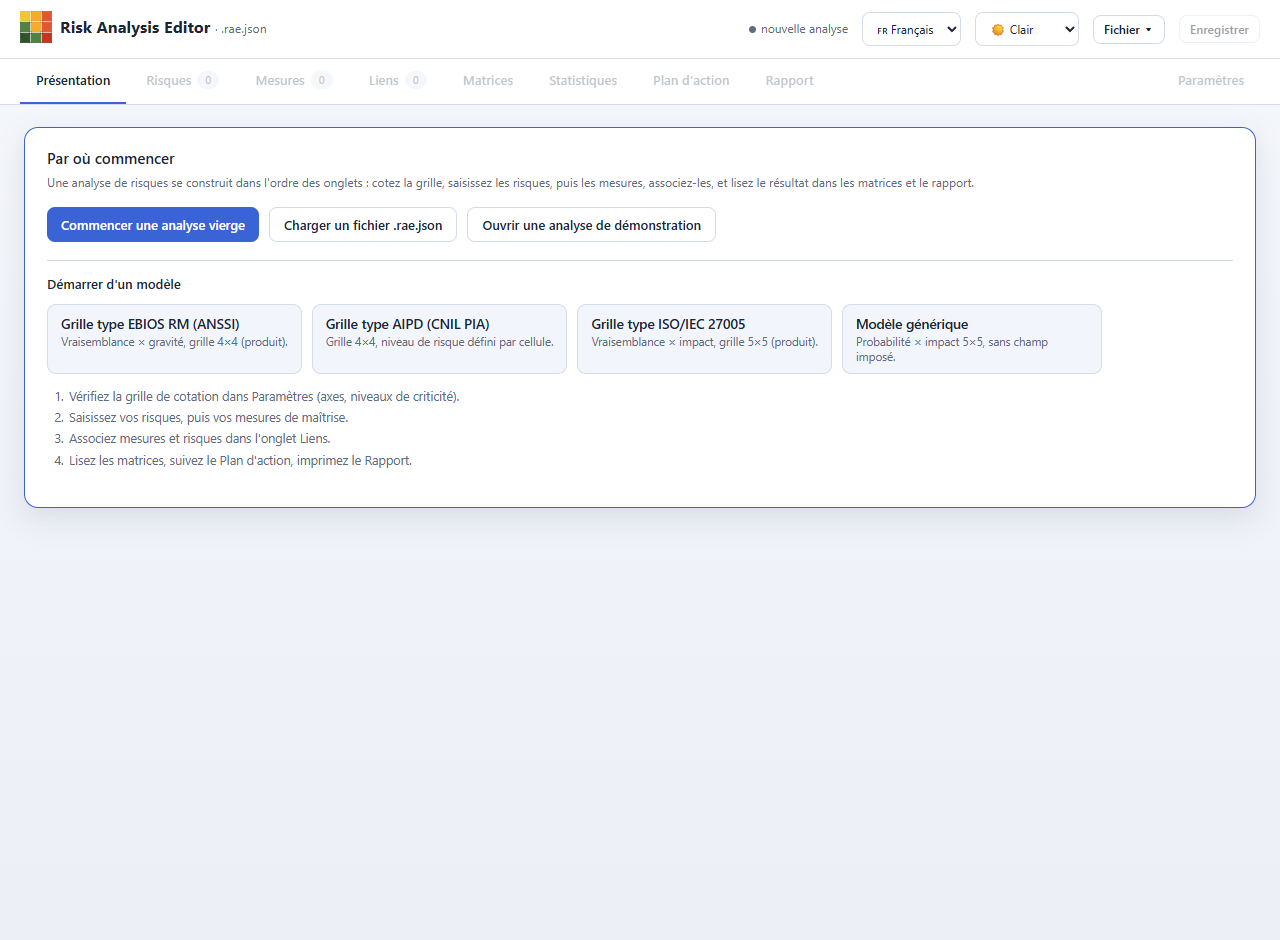
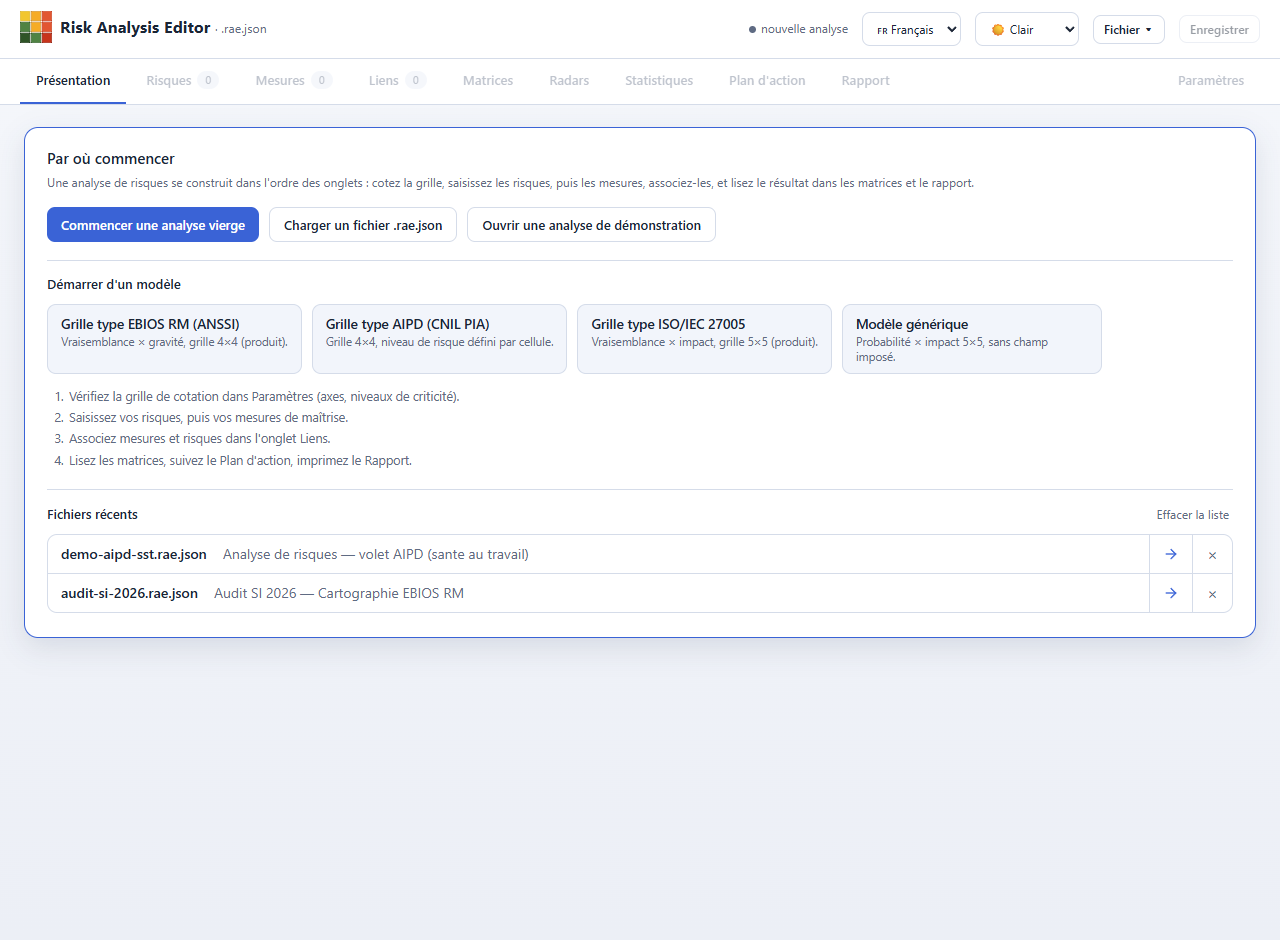
docs(accueil,radars): guide, captures et bump 1.19.0
- Guide : paragraphe « Fichiers récents » (§ écran d'accueil) et mention des
  couleurs des évaluations initiale/résiduelle dans « Rendu des radars ».
- Captures : accueil régénéré avec la liste des fichiers récents (récents
  factices injectés via shots.py) et Paramètres › Radars avec les pickers
  Couleur (initial)/(résiduel) et le bouton Réinitialiser aligné à droite.
- Version portée à 1.19.0 (en-tête, APP_VERSION, pied du guide).

diff --git a/app/risk-analysis-editor.html b/app/risk-analysis-editor.html
@@ -2,7 +2,7 @@
   ============================================================================
   Risk Analysis Editor — éditeur de matrices de risque (format .rae.json)
   ----------------------------------------------------------------------------
-  Version  : 1.18.0
+  Version  : 1.19.0
   Auteur   : Stéphane Vinter
   Licence  : MIT — © 2026 Stéphane Vinter (voir LICENSE)
   GitHub   : https://github.com/StephaneV/Risk-Analysis-Editor
@@ -9980,7 +9980,7 @@ function confirmModal(message,onYes,opts){
 }
 document.addEventListener("keydown",e=>{if(e.key==="Escape"&&dynModals.length)dynModals[dynModals.length-1].close();});
 /* ---------- À propos ---------- */
-const APP_VERSION="1.18.0", APP_AUTHOR="Stéphane Vinter", APP_LICENSE="MIT";
+const APP_VERSION="1.19.0", APP_AUTHOR="Stéphane Vinter", APP_LICENSE="MIT";
 const GITHUB_URL="https://github.com/StephaneV/Risk-Analysis-Editor";
 const SITE_URL="https://www.risk-analysis-editor.com/";
 /* Logo inline (autonome, hors-ligne) : mini-matrice de risque 3×3. Source : docs/images/RAE-logo-mini.svg */

diff --git a/tools/shots.py b/tools/shots.py
@@ -30,7 +30,11 @@ def fondu_bas(im):
 
 # (nom, suffixe URL, prep JS après chargement, pleine page ?, hauteur viewport)
 SHOTS = [
-    ("guide-01-accueil",            "?lang=fr",                 None, True,  940),
+    ("guide-01-accueil",            "?lang=fr",
+        "(async()=>{try{await rcTx('readwrite',s=>s.clear());"
+        "await rcTx('readwrite',s=>s.put({id:'a',name:'demo-aipd-sst.rae.json',title:'Analyse de risques — volet AIPD (sante au travail)',at:Date.now(),handle:{name:'x'}}));"
+        "await rcTx('readwrite',s=>s.put({id:'b',name:'audit-si-2026.rae.json',title:'Audit SI 2026 — Cartographie EBIOS RM',at:Date.now()-2000,handle:{name:'y'}}));"
+        "await renderStartRecents();}catch(e){}})()", True,  940),
     ("guide-02-presentation",       DEMO+"&tab=presentation",   None, True,  940),
     ("guide-03-parametres-grille",  DEMO+"&tab=settings.grid",  None, True,  940),
     ("guide-04-parametres-affichage",DEMO+"&tab=settings.display",None,True, 940),

diff --git a/docs/guide-utilisateur.md b/docs/guide-utilisateur.md
@@ -70,6 +70,8 @@ Le parcours conseillé se lit dans l'ordre des onglets :
 3. **Associez** mesures et risques dans l'onglet *Liens*.
 4. **Lisez les matrices**, suivez le *Plan d'action*, imprimez le *Rapport*.
 
+En bas de l'écran d'accueil, une liste **Fichiers récents** rassemble les dernières analyses **ouvertes ou enregistrées**, avec le **nom du fichier** et le **nom de l'analyse**. Le **bouton d'ouverture** (ou un clic sur la ligne) rouvre le fichier — le navigateur demande alors l'**autorisation** d'y accéder ; le **×** retire une entrée et **Effacer la liste** vide l'ensemble. Cette liste nécessite un navigateur compatible (Chrome, Edge) et **n'apparaît pas** ailleurs.
+
 Chaque étape est détaillée dans les sections suivantes.
 
 ---
@@ -287,7 +289,7 @@ Un sous-onglet dédié dans *Paramètres* règle deux choses, enregistrées **av
 ![Paramètres : radars](images/guide-25-parametres-radars.png)
 
 - **Poids par niveau de criticité** — utilisés par la métrique *Criticité pondérée* : chaque risque compte pour le poids de son niveau (par défaut **1 / 2 / 4 / 8**, du plus faible au plus grave).
-- **Rendu des radars** — **luminosité** et **saturation** (HSL) des bandes de fond, **épaisseur du contour**, **pas des graduations** (`0` = automatique) et **couleur des rayons**, avec un **aperçu** en direct. Ces réglages s'appliquent à l'écran, à l'export et au rapport.
+- **Rendu des radars** — **luminosité** et **saturation** (HSL) des bandes de fond, **épaisseur du contour**, **pas des graduations** (`0` = automatique), **couleur des rayons** et **couleurs des évaluations initiale et résiduelle** (contour et pastilles), avec un **aperçu** en direct. Ces réglages s'appliquent à l'écran, à l'export et au rapport.
 
 ---
 
@@ -506,4 +508,4 @@ C'est attendu : le score et la criticité sont **recalculés** à partir de la g
 
 ---
 
-*Ce guide correspond à Risk Analysis Editor version 1.18.0. Les captures illustrent l'analyse de démonstration fictive `examples/demo-aipd-sst.rae.json`.*
+*Ce guide correspond à Risk Analysis Editor version 1.19.0. Les captures illustrent l'analyse de démonstration fictive `examples/demo-aipd-sst.rae.json`.*
